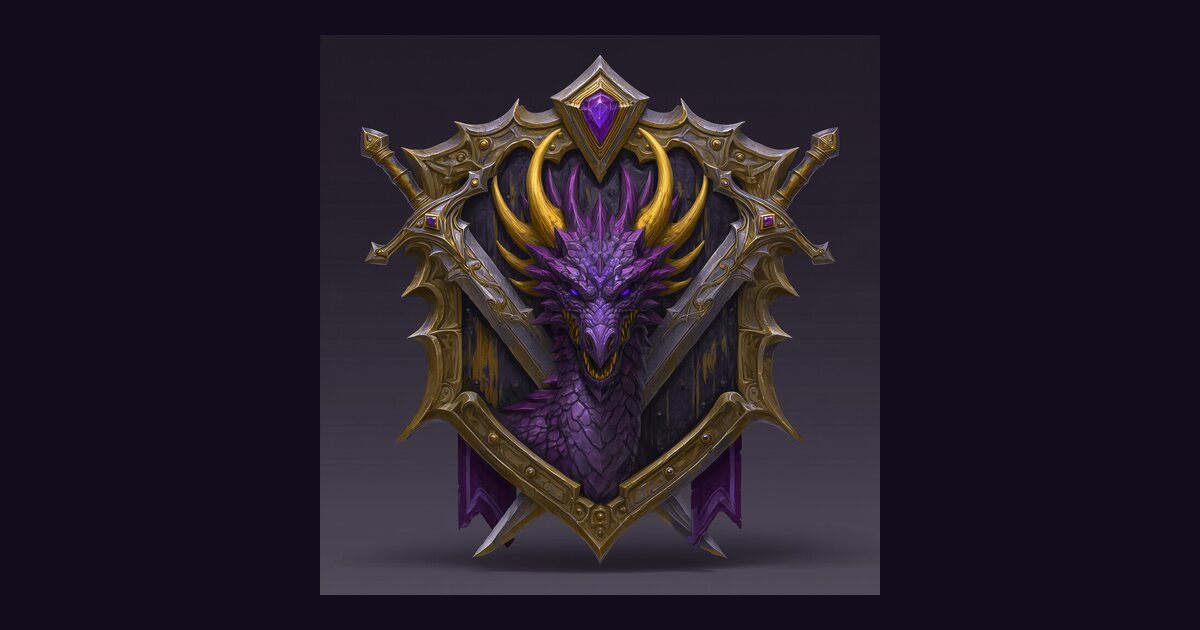
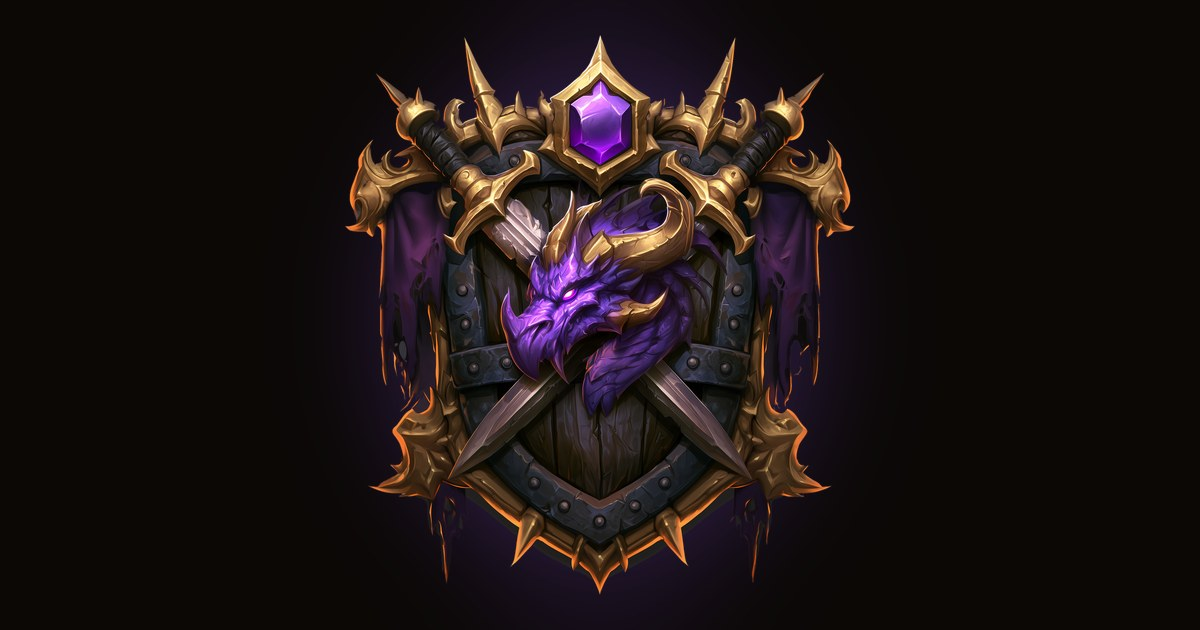
Use the new guild crest everywhere
- Cut the crest out of its grey background, trimmed and squared, and
  generated crest-128/256/512 PNGs, 512/1024 WebP, favicon, a 180px
  apple-touch-icon and a new 1200x630 social preview
- Header, sign-in, brand page, countdown medallion, guild window
  portrait, gavel striking plate and Discord webhook avatar use it
- Transparent crest gets a breathing gold/purple glow instead of the old
  boxed frame; round frames show the whole crest on a dark backdrop
- Source image kept in design/crest-source.png (out of public/)
- Brand page palette updated to the WoW theme

Claude-Session: https://claude.ai/code/session_01UMQWyQqHPWV4HknETmdj8c

diff --git a/app/brand/page.tsx b/app/brand/page.tsx
@@ -4,25 +4,25 @@ import { SITE } from "@/lib/config";
 export const metadata: Metadata = { title: "Brand" };
 
 const PALETTE = [
-  ["#0b0806", "Night purple", "Page background"], ["#1c140b", "Royal purple", "Hero and feature panels"], ["#15100a", "Amethyst", "Cards"],
-  ["#574320", "Frame", "Borders and dividers"], ["#E3B341", "Royal gold", "Primary buttons, active states"], ["#F5D77E", "Light gold", "Page titles, highlights"],
-  ["#C9A13B", "Antique gold", "Header trim, logo frame"], ["#F2E8D0", "Lavender white", "Body text"],
-];
+  ["#0b0806", "Stone black", "Page background"], ["#1c140b", "Dark oak", "Hero and feature panels"], ["#15100a", "Leather", "Cards and frames"],
+  ["#8a6a2c", "Gold trim", "Frame borders and rivets"], ["#FFD100", "WoW gold", "Titles, headings, active tabs"], ["#F0B21C", "Royal gold", "Bars, highlights"],
+  ["#a3221a", "Crimson", "Primary action buttons"], ["#9B5DFF", "Crest amethyst", "Magic accents and glows"], ["#F2E8D0", "Parchment", "Body text"],
+]
 
 export default function BrandPage() {
   return (
     <main id="main" tabIndex={-1} className="container page">
       <div className="row" style={{ alignItems: "flex-start", gap: 40 }}>
-        <img src="/assets/crest-1024.jpg" width={600} height={600} style={{ flex: "1 1 360px", maxWidth: 600, height: "auto", borderRadius: 16, border: "1px solid var(--dw-gold-antique)" }}
-          alt="Dragon Warriors guild crest: a purple dragon with gold horns on a dark wooden shield, framed in spiked gold, with crossed swords, an amethyst gem and purple banners" />
+        <img src="/assets/crest-1024.webp" width={600} height={600} className="brand-crest" style={{ flex: "1 1 360px", maxWidth: 600, height: "auto" }}
+          alt="Dragon Warriors guild crest: a purple dragon head with gold horns and glowing eyes on a riveted dark-oak shield, crossed swords behind it, an amethyst set in a spiked gold crown, purple banners, all framed in spiked gold" />
         <div className="stack" style={{ flex: "1 1 360px", gap: 28 }}>
           <div className="stack" style={{ gap: 8 }}>
             <span className="eyebrow">Official guild crest</span>
             <h1>{SITE.name}</h1>
-            <p className="soft">Royal purple and gold: deep purple panels, gold for actions and titles, and antique gold trim around the crest.</p>
+            <p className="soft">WoW interface colours: stone and dark-oak frames with gold trim, WoW gold for titles, crimson action buttons, and the crest's amethyst purple for magic and glow.</p>
           </div>
           <div className="row" style={{ alignItems: "flex-end", gap: 16 }}>
-            {[128, 64, 48, 32].map((s) => <img key={s} src="/assets/crest-256.jpg" alt={`${SITE.name} crest, ${s}px`} width={s} height={s} className="logo" style={{ objectFit: "cover" }} />)}
+            {[128, 64, 48, 32].map((s) => <img key={s} src="/assets/crest-256.png" alt={`${SITE.name} crest, ${s}px`} width={s} height={s} className="logo" style={{ objectFit: "contain" }} />)}
           </div>
           <div className="stack" style={{ gap: 12 }}>
             <h2>Site palette</h2>

diff --git a/app/globals.css b/app/globals.css
@@ -779,3 +779,16 @@ button:disabled, [aria-disabled="true"], select:disabled, input:disabled { curso
 .wow-tabs { position: relative; left: auto; bottom: auto; z-index: 1; margin: -3px 0 0 28px; }
 @media (max-width: 760px) { .wow-tabs { margin-left: 12px; } }
 .wow-shell { min-width: 0; width: 100%; box-sizing: border-box; }
+
+/* ---------- new crest (transparent, spiked gold silhouette) ---------- */
+.logo { border: 0 !important; border-radius: 0 !important; background: none !important; box-shadow: none !important; object-fit: contain !important;
+  filter: drop-shadow(0 2px 2px #000) drop-shadow(0 0 8px rgba(255,190,60,.35)); animation: crestBreath 5s ease-in-out infinite; }
+@keyframes crestBreath { 50% { filter: drop-shadow(0 2px 2px #000) drop-shadow(0 0 14px rgba(155,93,255,.65)); } }
+.brand:hover .logo { transform: scale(1.08) rotate(-3deg); }
+.brand-crest { filter: drop-shadow(0 20px 30px rgba(0,0,0,.8)) drop-shadow(0 0 40px rgba(155,93,255,.35)); }
+/* round frames show the whole crest instead of cropping it */
+.medallion-crest, .wow-portrait img, .gavel-plate img { object-fit: contain !important; padding: 10%;
+  background: radial-gradient(circle at 50% 40%, #2a1d3d, #0b0806 72%); box-sizing: border-box; }
+.medallion-crest { padding: 8%; }
+.gavel-plate img { padding: 12%; }
+@media (prefers-reduced-motion: reduce) { .logo { animation: none; } }

diff --git a/lib/discord.ts b/lib/discord.ts
@@ -53,14 +53,14 @@ export async function notify(category: DiscordCategory, embed: Embed, opts: { co
       headers: { "Content-Type": "application/json" },
       body: JSON.stringify({
         username: SITE.name,
-        avatar_url: hubUrl("/assets/crest-256.jpg"),
+        avatar_url: hubUrl("/assets/crest-256.png"),
         content: opts.content,
         allowed_mentions: { parse: [] },
         embeds: [{
           color: 0xffd100, ...embed,
           thumbnail: embed.thumbnail ? { url: embed.thumbnail } : undefined,
           image: embed.image ? { url: embed.image } : undefined,
-          footer: { text: `${SITE.name} guild hub`, icon_url: hubUrl("/assets/crest-256.jpg") },
+          footer: { text: `${SITE.name} guild hub`, icon_url: hubUrl("/assets/crest-256.png") },
           timestamp: embed.timestamp ?? new Date().toISOString(),
         }],
       }),

diff --git a/app/sign-in/SignInScreen.tsx b/app/sign-in/SignInScreen.tsx
@@ -12,7 +12,7 @@ export async function SignInScreen({ initialStep, error, discord }: { initialSte
     <main id="main" tabIndex={-1} className="signin">
       <section aria-label={SITE.name} className="signin-brand">
         <div className="row" style={{ gap: 14 }}>
-          <img src="/assets/crest-256.jpg" alt="" width={64} height={64} className="logo" style={{ width: 64, height: 64, objectFit: "cover", display: "block" }} />
+          <img src="/assets/crest-256.png" alt="" width={64} height={64} className="logo" style={{ width: 64, height: 64, objectFit: "cover", display: "block" }} />
           <span className="brand-name" style={{ fontSize: 24 }}>{SITE.name}</span>
         </div>
         <div className="stack" style={{ maxWidth: 520, gap: 16 } as React.CSSProperties}>

diff --git a/components/SiteHeader.tsx b/components/SiteHeader.tsx
@@ -19,7 +19,7 @@ export async function SiteHeader() {
       <header className="site-header">
         <div className="bar-inner">
           <Link href="/" className="brand">
-            <img src="/assets/crest-256.jpg" alt="" width={48} height={48} className="logo" style={{ display: "block", width: 48, height: 48, objectFit: "cover" }} />
+            <img src="/assets/crest-128.png" alt="" width={52} height={52} className="logo" style={{ display: "block", width: 52, height: 52, objectFit: "contain" }} />
             <span style={{ display: "flex", flexDirection: "column", lineHeight: 1.15 }}>
               <span className="brand-name">{SITE.name}</span>
               <span className="micro muted">{SITE.tagline}</span>

diff --git a/app/layout.tsx b/app/layout.tsx
@@ -9,7 +9,7 @@ export const metadata: Metadata = {
   metadataBase: new URL(SITE.url),
   title: { default: `${SITE.name} — Guild Hub`, template: `%s · ${SITE.name}` },
   description: SITE.description,
-  icons: { icon: SITE.favicon, apple: "/assets/crest-256.jpg" },
+  icons: { icon: SITE.favicon, apple: "/assets/apple-touch-icon.png" },
   openGraph: { title: SITE.name, description: SITE.description, url: SITE.url, siteName: SITE.name, images: [{ url: SITE.ogImage, width: 1200, height: 630 }], type: "website" },
   twitter: { card: "summary_large_image", images: [SITE.ogImage] },
 };

diff --git a/app/guild/GuildWindow.tsx b/app/guild/GuildWindow.tsx
@@ -43,7 +43,7 @@ export function GuildWindow({ profile, members, motd, info, isMember, signedIn }
   return (
     <div className="wow-shell">
     <section className="wow-window" aria-labelledby="guild-name">
-      <div className="wow-portrait" aria-hidden="true"><img src="/assets/crest-256.jpg" alt="" /></div>
+      <div className="wow-portrait" aria-hidden="true"><img src="/assets/crest-256.png" alt="" /></div>
       <div className="wow-titlebar">
         <h1 id="guild-name" className="wow-title">{profile.name}</h1>
       </div>

diff --git a/components/Medallion.tsx b/components/Medallion.tsx
@@ -12,7 +12,7 @@ export function Medallion({ size = 132 }: { size?: number }) {
       <svg viewBox="0 0 200 200" className="medallion-ring reverse">
         <circle cx="100" cy="100" r="74" fill="none" stroke="#9B5DFF" strokeOpacity=".55" strokeWidth="1.5" strokeDasharray="2 7" />
       </svg>
-      <img src="/assets/crest-256.jpg" alt="" className="medallion-crest" />
+      <img src="/assets/crest-256.png" alt="" className="medallion-crest" />
     </div>
   );
 }

diff --git a/components/Gavel.tsx b/components/Gavel.tsx
@@ -37,7 +37,7 @@ export function GavelSlam({ moment, onDone }: { moment: GavelMoment | null; onDo
       <div className="gavel-vignette" aria-hidden="true" />
 
       <div className="gavel-plate" aria-hidden="true">
-        <img src="/assets/crest-256.jpg" alt="" />
+        <img src="/assets/crest-256.png" alt="" />
       </div>
       <div className="gavel-impact" aria-hidden="true">
         <span className="gavel-flash" />
